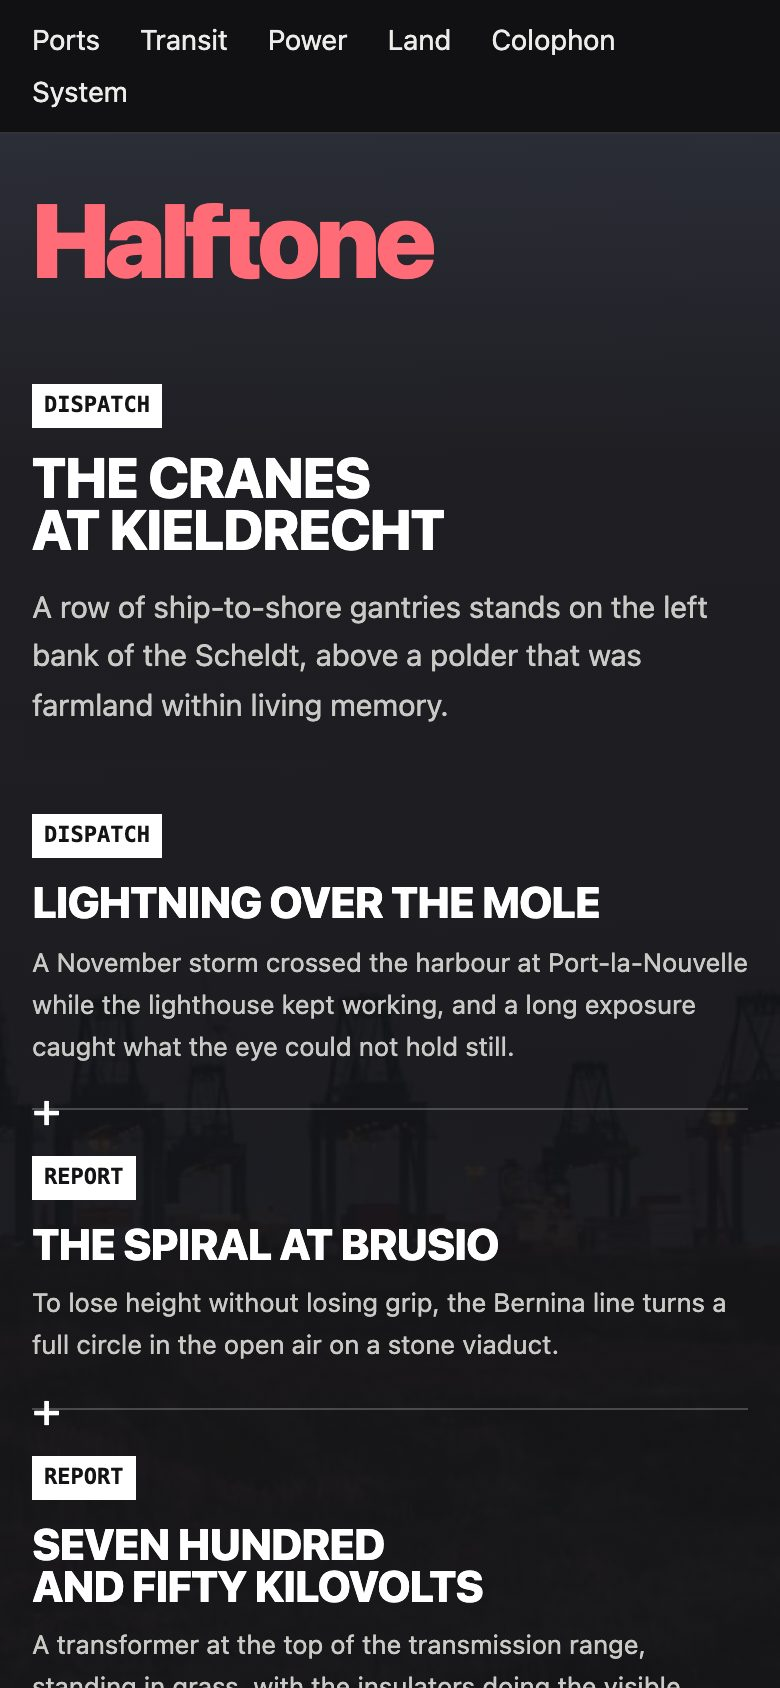
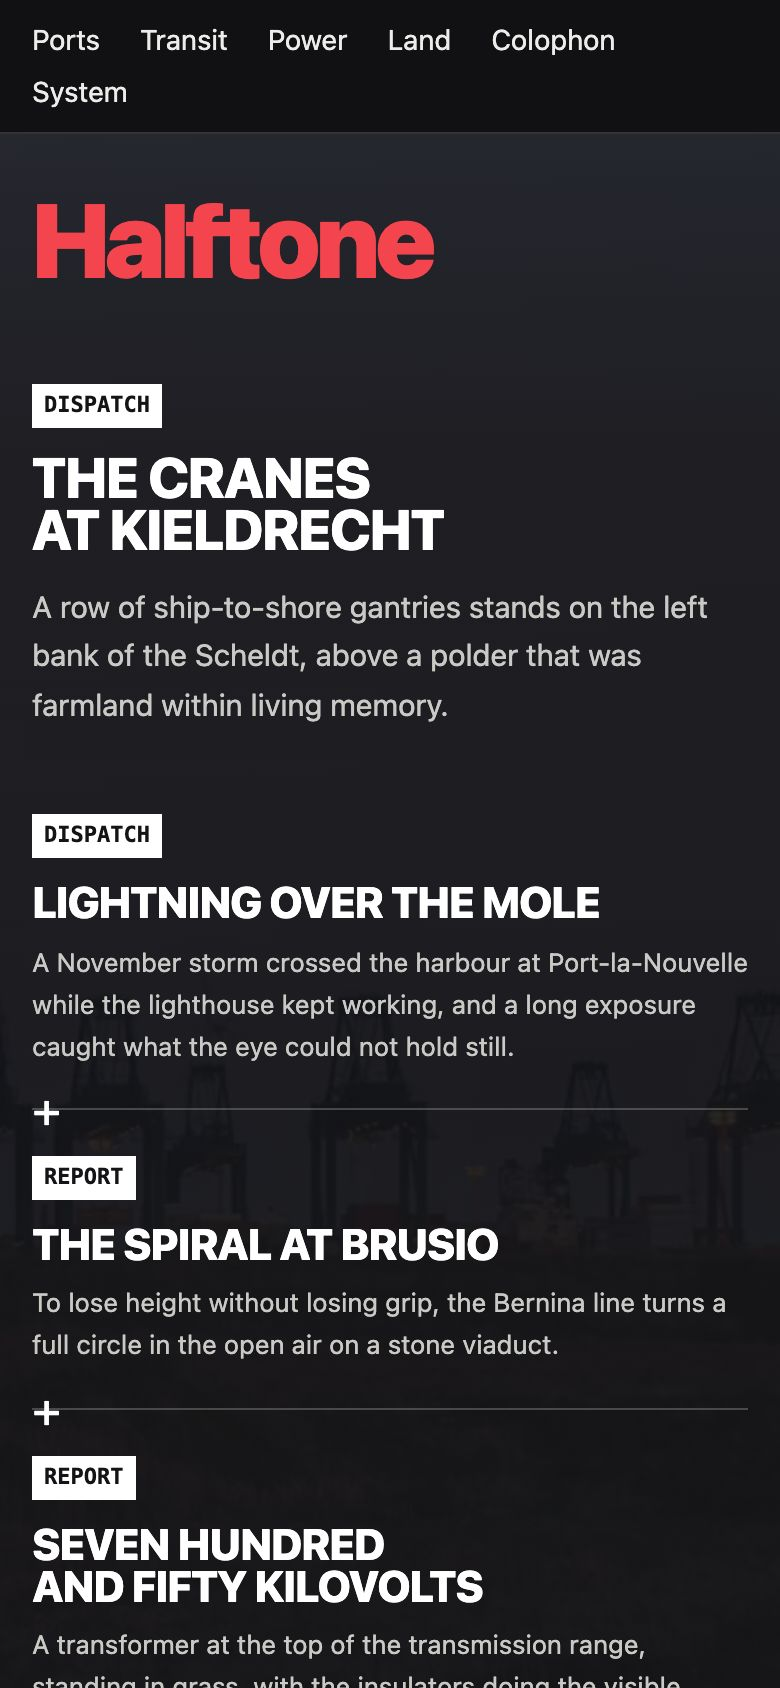
Release v1.1.1

Changed region(s): [[0.0308, 0.1232, 0.5538, 0.1848]]

diff --git a/src/styles/global.css b/src/styles/global.css
@@ -77,7 +77,7 @@
     A plate is a photograph with type laid on it. The scrim guarantees contrast
     whatever the photograph turns out to be -- measured against a pure white
     photograph, --on-plate needs 0.59 alpha and --on-plate-muted needs 0.73.
-    The 0.88 floor in the first stop leaves headroom. Do not lower it; the type
+    The 0.92 floor in the first stop leaves headroom. Do not lower it; the type
     column only ever sits in that first band.
   */
   .plate {
@@ -98,7 +98,7 @@
   }
   /*
     The scrim. Measured over a pure white photograph, the floors are 0.59 alpha for
-    --on-plate, 0.73 for --on-plate-muted and 0.75 for the wordmark in --primary-on-plate
+    --on-plate, 0.73 for --on-plate-muted and 0.83 for the wordmark in --primary-on-plate
     at display size. The plate holds 0.92 wherever type goes, which leaves headroom.
     Do not lower it, and keep the type column inside 32rem -- that is what makes the
     wide-screen stop below land under the band rather than past it.
@@ -111,11 +111,11 @@
        scrim is a gradient anchored wherever the type is.
 
        Narrow: the cover lines fill the plate top to bottom, so it runs up the page and only
-       opens to 0.80 at the head, still above the wordmark's 0.75. style-check-ignore */
+       opens to 0.85 at the head, still above the wordmark's 0.83. style-check-ignore */
     background: linear-gradient(
       to top,
       color-mix(in srgb, var(--plate) 92%, transparent) 0 80%,
-      color-mix(in srgb, var(--plate) 80%, transparent)
+      color-mix(in srgb, var(--plate) 85%, transparent)
     );
   }
   /* Wide enough for a column beside the picture (32rem of type plus its gutter reaches 52%

diff --git a/src/styles/tokens.css b/src/styles/tokens.css
@@ -20,8 +20,8 @@
   --foreground: light-dark(#111113, #ececea); /* true black ink */
   --muted: light-dark(#5d6164, #9ea2a5); /* bylines, folios, photo credits */
   --border: light-dark(#d5d5d1, #333336); /* hairline rules */
-  --primary: light-dark(#c60f26, #ff6b76); /* the spot: wordmark, kicker boxes, links */
-  --primary-hover: light-dark(#9c0b1e, #ff969e);
+  --primary: light-dark(#c60f26, #f4454f); /* the spot: wordmark, kicker boxes, links */
+  --primary-hover: light-dark(#9c0b1e, #ff8087);
   --on-primary: light-dark(#ffffff, #111113);
   --plate: light-dark(
     #141416,
@@ -30,8 +30,8 @@
   --on-plate: light-dark(#ffffff, #ffffff); /* cover lines set on a plate */
   --on-plate-muted: light-dark(#c9c9c6, #c9c9c6); /* decks, credits on a plate */
   --primary-on-plate: light-dark(
-    #ff6b76,
-    #ff6b76
+    #f4454f,
+    #f4454f
   ); /* the spot ON a plate. Plates are dark in both modes, so the light-mode red never applies there */
   --focus-ring: var(--primary);
 
@@ -72,7 +72,7 @@
     --plate: #141416;
     --on-plate: #ffffff;
     --on-plate-muted: #c9c9c6;
-    --primary-on-plate: #ff6b76;
+    --primary-on-plate: #f4454f;
   }
 }
 

diff --git a/CHANGELOG.md b/CHANGELOG.md
@@ -2,6 +2,17 @@
 
 All notable changes to this project are documented here. Format: [Keep a Changelog](https://keepachangelog.com/en/1.1.0/).
 
+## [1.1.1] - 2026-09-22
+
+### Changed
+
+- **The spot colour on a photograph is a red, not a salmon.** `--primary-on-plate` is `#f4454f`
+  instead of `#ff6b76`, and dark mode's `--primary` follows it, so the wordmark on a cover plate
+  reads as the same red the paper carries rather than a pink lifted off it. The paper red
+  (`#c60f26`) is unchanged: it doubles as the link colour and already sits at the AA floor.
+- The narrow-screen scrim closes to 0.85 at the head of a plate instead of 0.80, which is what the
+  new spot needs at display size over a bright photograph.
+
 ## [1.1.0] - 2026-09-22
 
 The demo content is rebuilt around real photographs. The theme's code is unchanged apart from one
